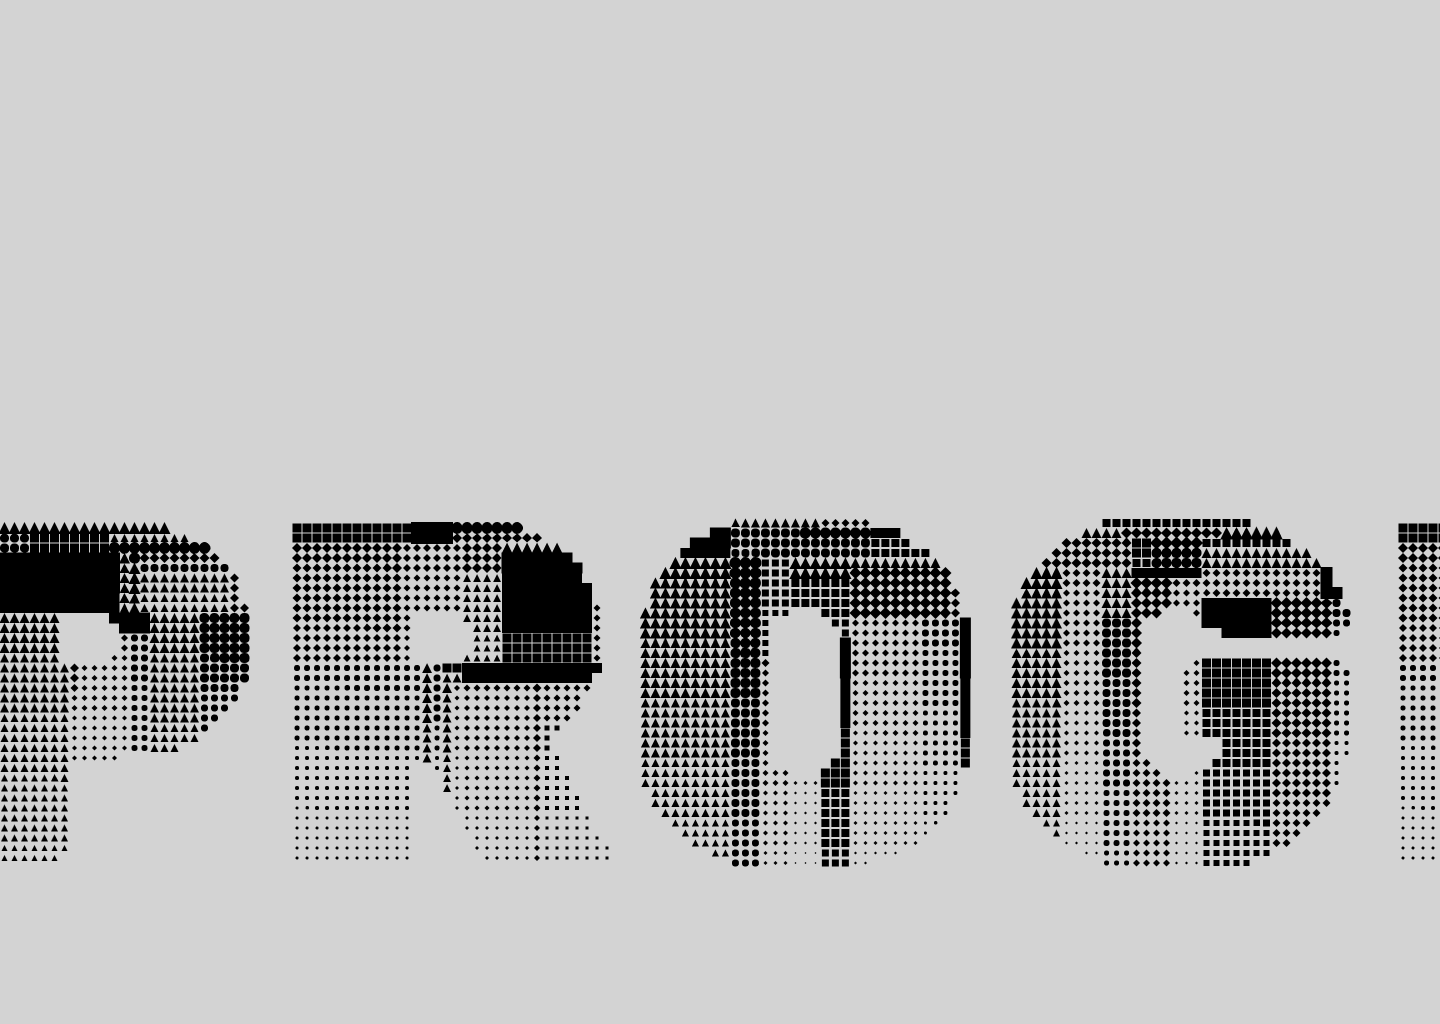
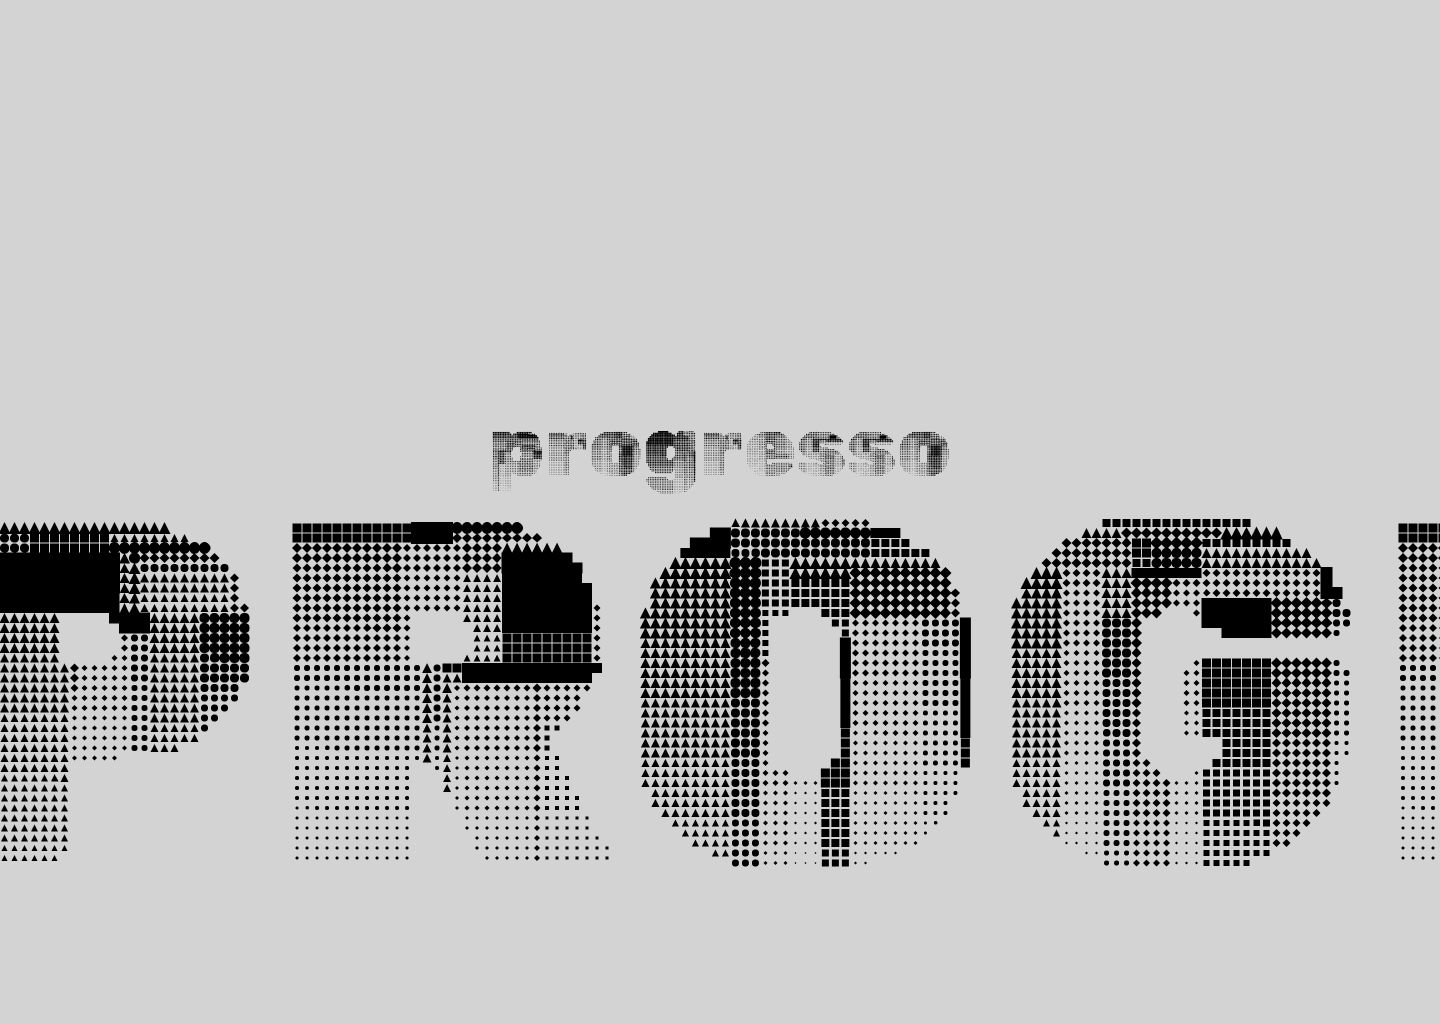
fix: a way for mobile reading progress word

Changed region(s): [[0.3438, 0.4062, 0.6562, 0.5]]

diff --git a/src/trilha_01_AAU/down/start.html b/src/trilha_01_AAU/down/start.html
@@ -75,7 +75,7 @@
 
       <div class="image-slide" style="background-image: url('./images/08.png')">
         <div class="slide-content">
-          <button class="button-next" id="btn">Progredir ➞</button>
+          <button class="button-next" id="btn">progredir ➞</button>
         </div>
       </div>
     </section>

diff --git a/src/trilha_01_AAU/down/styles.css b/src/trilha_01_AAU/down/styles.css
@@ -96,10 +96,10 @@ html {
 }
 
 .slide-content {
-  width: 95%;
+  width: 90%;
   height: 20%;
   display: flex;
-  justify-content: center;
+  justify-content: right;
   align-items: center;
 }
 
@@ -115,6 +115,6 @@ html {
   }
 
   .slide-content {
-    justify-content: center;
+    justify-content: right;
   }
 }

diff --git a/src/trilha_01_AAU/up/up.html b/src/trilha_01_AAU/up/up.html
@@ -13,7 +13,7 @@
         style="background-image: url('./images/down/01.png')"
       >
         <div class="slide-content">
-          <button class="button-next" id="btn">☚ Esquerda!</button>
+          <button class="button-next" id="btn">☚ esquerda!</button>
         </div>
       </div>
       <div

diff --git a/src/trilha_01_AAU/right/right.html b/src/trilha_01_AAU/right/right.html
@@ -78,7 +78,7 @@
         style="background-image: url('./images/14.png')"
       >
         <div class="slide-content">
-          <button class="button-next" id="btn">⬆Subir⬆</button>
+          <button class="button-next" id="btn">⬆edificar⬆</button>
         </div>
       </div>
     </section>
